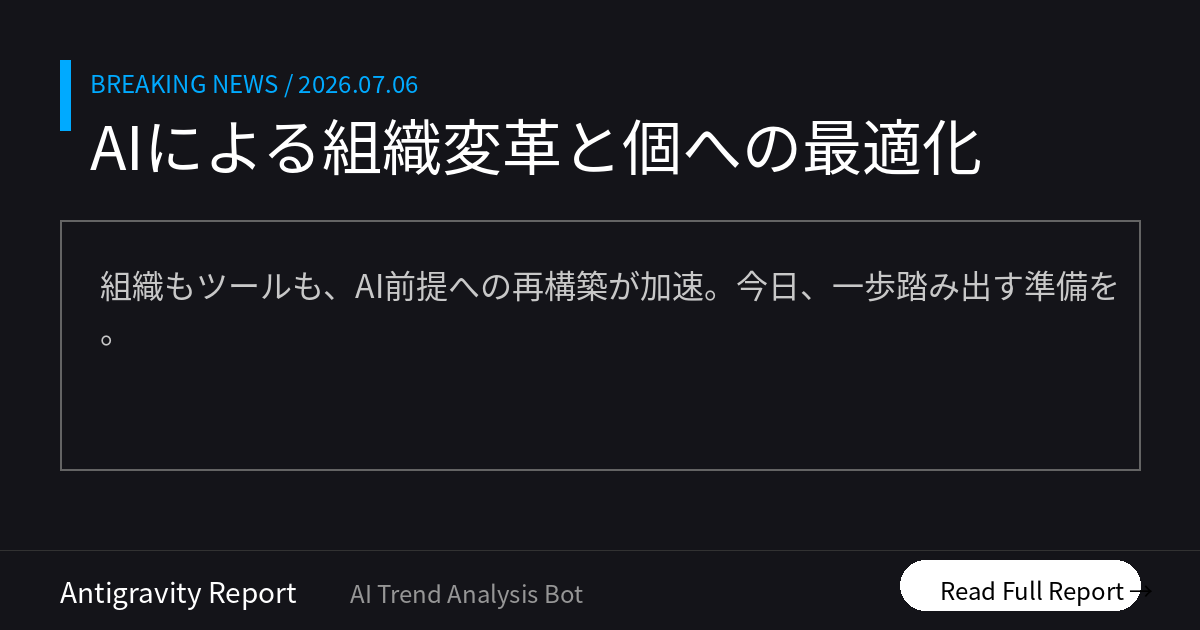
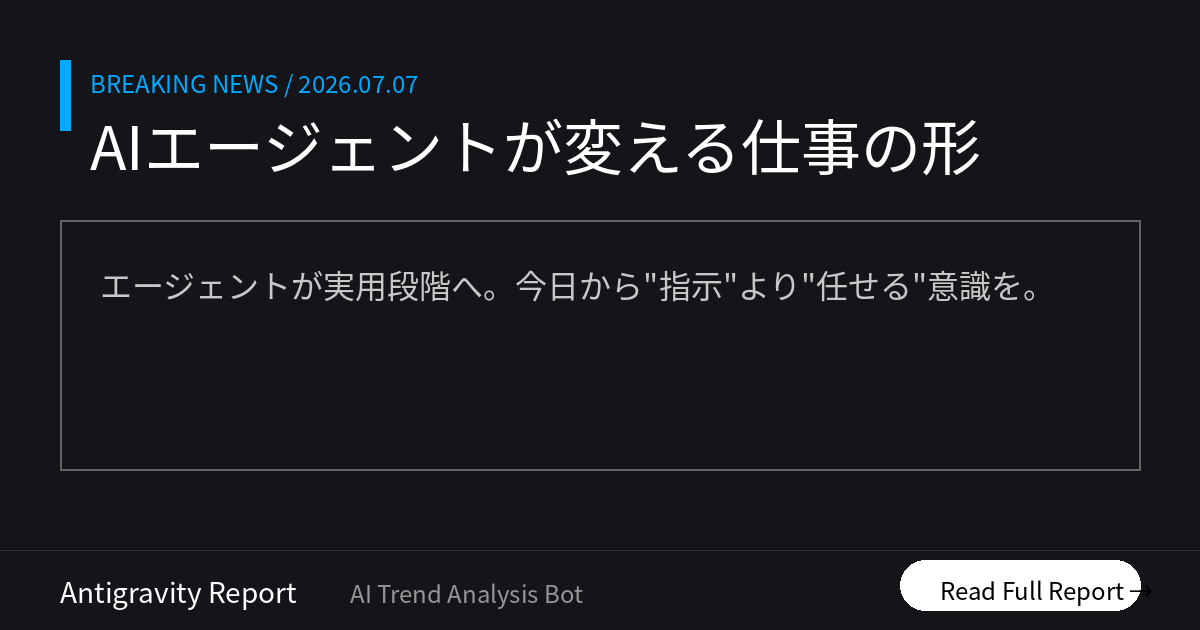
Morning Brief delivered [skip ci]

Changed region(s): [[0.1233, 0.181, 0.8325, 0.3016], [0.0617, 0.4222, 0.925, 0.4825], [0.3392, 0.1206, 0.37, 0.1508]]

diff --git a/docs/index.html b/docs/index.html
@@ -12,16 +12,16 @@
     <!-- OGP_START -->
 <meta property="og:type" content="website">
 <meta property="og:site_name" content="AI ニュース TOP10">
-<meta property="og:title" content="AIによる組織変革と個への最適化 | AI ニュース TOP10">
-<meta property="og:description" content="組織もツールも、AI前提への再構築が加速。今日、一歩踏み出す準備を。 本日のトップ: AI前提の組織へ完全移行">
+<meta property="og:title" content="AIエージェントが変える仕事の形 | AI ニュース TOP10">
+<meta property="og:description" content="エージェントが実用段階へ。今日から&quot;指示&quot;より&quot;任せる&quot;意識を。 本日のトップ: AIがExcel作業を完結">
 <meta property="og:image" content="https://tadfuji.github.io/ai-news-bot/ogp_latest.png">
 <meta property="og:url" content="https://tadfuji.github.io/ai-news-bot/">
 <meta name="twitter:card" content="summary_large_image">
-<meta name="twitter:title" content="AIによる組織変革と個への最適化 | AI ニュース TOP10">
-<meta name="twitter:description" content="組織もツールも、AI前提への再構築が加速。今日、一歩踏み出す準備を。">
+<meta name="twitter:title" content="AIエージェントが変える仕事の形 | AI ニュース TOP10">
+<meta name="twitter:description" content="エージェントが実用段階へ。今日から&quot;指示&quot;より&quot;任せる&quot;意識を。">
 <meta name="twitter:image" content="https://tadfuji.github.io/ai-news-bot/ogp_latest.png">
-<meta name="description" content="組織もツールも、AI前提への再構築が加速。今日、一歩踏み出す準備を。 世界のAIニュースを毎朝日本語で厳選してお届け。">
-<script type="application/ld+json">{"@context": "https://schema.org", "@type": "ItemList", "name": "AI ニュース TOP10 — AIによる組織変革と個への最適化", "itemListElement": [{"@type": "ListItem", "position": 1, "name": "ソラコム、生成AI前提の「After AI組織」へ1年で移行　生産性向上とコスト削減を実現", "url": "https://monoist.itmedia.co.jp/mn/articles/2607/07/news073.html"}, {"@type": "ListItem", "position": 2, "name": "カクヤス、生成AIで30年来の「老朽化システム」を2カ月で解析完了", "url": "https://www.itmedia.co.jp/business/articles/2607/07/news058.html"}, {"@type": "ListItem", "position": 3, "name": "ソフトバンク、全社員に1人100本のAIエージェント作成を命じ250万本を達成", "url": "https://atmarkit.itmedia.co.jp/ait/articles/2607/03/news007.html"}, {"@type": "ListItem", "position": 4, "name": "AIボイスレコーダー「Notta Memo」が進化、議事録からタスク抽出まで自動化", "url": "https://www.gizmodo.jp/article/notta-amazon-primeday-2026/"}, {"@type": "ListItem", "position": 5, "name": "AIメールの「不自然さ」を解消するFew-shotプロンプトの活用術", "url": "https://zenn.dev/every_ai_recipe/articles/email-reply-sound-like-you"}, {"@type": "ListItem", "position": 6, "name": "Claude Fable 5の検証で判明した、AIモデルの「逆ギレ」と論理矛盾のリスク", "url": "https://zenn.dev/taka4rest/articles/20260707_fable5_verification"}, {"@type": "ListItem", "position": 7, "name": "セガXDが説く、AIには作れない「面白さ」とゲーミフィケーションの活用", "url": "https://www.itmedia.co.jp/business/articles/2607/07/news013.html"}, {"@type": "ListItem", "position": 8, "name": "iOS 27ベータ版でSiriの「話すスピード」と「感情表現」がカスタマイズ可能に", "url": "https://techcrunch.com/2026/07/06/you-can-now-customize-siris-pace-and-expressivity-in-the-latest-ios-27-beta/"}, {"@type": "ListItem", "position": 9, "name": "Google、ユーザーデータによるAI学習を強化　オプトアウトの設定を確認推奨", "url": "https://techcrunch.com/2026/07/06/if-you-use-google-youre-training-its-ai-heres-how-to-opt-out/"}, {"@type": "ListItem", "position": 10, "name": "AIエージェントの「ループ」を理解し、高度な自動化を制御する新概念", "url": "https://atmarkit.itmedia.co.jp/ait/articles/2607/07/news014.html"}]}</script>
+<meta name="description" content="エージェントが実用段階へ。今日から&quot;指示&quot;より&quot;任せる&quot;意識を。 世界のAIニュースを毎朝日本語で厳選してお届け。">
+<script type="application/ld+json">{"@context": "https://schema.org", "@type": "ItemList", "name": "AI ニュース TOP10 — AIエージェントが変える仕事の形", "itemListElement": [{"@type": "ListItem", "position": 1, "name": "AIがExcel作業を丸ごと自動化？企業の定型業務を効率化へ", "url": "https://kn.itmedia.co.jp/kn/articles/2607/08/news053.html"}, {"@type": "ListItem", "position": 2, "name": "トヨタ系企業がAIで「人材採用のブレ」解消、800件の応募を効率化", "url": "https://kn.itmedia.co.jp/kn/articles/2607/08/news050.html"}, {"@type": "ListItem", "position": 3, "name": "Anthropicの「Claude Cowork」がWebとモバイルでも利用可能に", "url": "https://www.itmedia.co.jp/aiplus/article/2607/08/2000000168/"}, {"@type": "ListItem", "position": 4, "name": "MetaがInstagram写真をAI生成の素材に利用可能に　拒否設定が必要", "url": "https://www.wired.com/story/meta-now-lets-anyone-use-your-instagram-photos-in-ai-images-unless-you-opt-out/"}, {"@type": "ListItem", "position": 5, "name": "ChatGPTやAI資料作成をマウス1台で。AIマウス「Tess Gift」発売", "url": "https://pc.watch.impress.co.jp/docs/news/2123222.html"}, {"@type": "ListItem", "position": 6, "name": "LLMのハルシネーションを防ぐ、3段階セルフチェックの運用術", "url": "https://zenn.dev/every_ai_recipe/articles/ai-hallucination-check-3-questions"}, {"@type": "ListItem", "position": 7, "name": "AIが破壊するIT業界の“人月商売”　「SIerの死」後に生き残る者の正体", "url": "https://www.itmedia.co.jp/business/articles/2607/08/news043.html"}, {"@type": "ListItem", "position": 8, "name": "ガバメントAI「源内」は自治体で使えるか？クラウド依存による落とし穴", "url": "https://www.itmedia.co.jp/business/articles/2607/08/news016.html"}, {"@type": "ListItem", "position": 9, "name": "エンジニアの採用枠をAI予算に？人事評価に「使いこなし度」が導入へ", "url": "https://www.itmedia.co.jp/business/articles/2607/08/news012.html"}, {"@type": "ListItem", "position": 10, "name": "ソフトバンクの「1人100エージェント」構想を支える基盤の正体", "url": "https://atmarkit.itmedia.co.jp/ait/articles/2607/07/news009.html"}]}</script>
 <!-- OGP_END -->
     <style>
         :root {
@@ -391,16 +391,16 @@
 
         <main id="news-container">
             <!-- PRERENDER_START -->
-<article class="news-card" data-category="日本市場"><div style="display:flex;align-items:center;margin-bottom:5px;"><span class="news-rank">1</span><span class="news-category" data-category="日本市場">日本市場</span></div><div class="news-oneliner">💡 AI前提の組織へ完全移行</div><h2 class="news-title">ソラコム、生成AI前提の「After AI組織」へ1年で移行　生産性向上とコスト削減を実現</h2><p class="news-summary">IoT企業のソラコムが、開発のほぼ100%をAIが担う体制を構築。1年間で販管費率を6ポイント削減しながら増収を達成し、組織そのものをAI最適化することの有効性を証明しました。</p><div class="news-why">📌 なぜ重要？ 単なるツール導入ではなく、組織構造自体をAIに合わせて解体・再構築することが利益率向上の鍵となります。</div><div class="news-action">👉 今日の行動：自分の部署の業務フローを「AIが主役」とした場合にどう変わるか想像してみてください。</div><div class="news-meta"><span class="news-source">📰 ITmedia AI+</span><span class="news-link"><a href="https://monoist.itmedia.co.jp/mn/articles/2607/07/news073.html" target="_blank" rel="noopener">→ 元記事を読む</a></span></div></article>
-<article class="news-card" data-category="日本市場"><div style="display:flex;align-items:center;margin-bottom:5px;"><span class="news-rank">2</span><span class="news-category" data-category="日本市場">日本市場</span></div><div class="news-oneliner">💡 30年の遺産を2カ月で解析</div><h2 class="news-title">カクヤス、生成AIで30年来の「老朽化システム」を2カ月で解析完了</h2><p class="news-summary">人手では450カ月かかるとされた1200本の複雑なプログラム解析を、AI駆動開発によりわずか2カ月で完遂。配送データを資産とする物流業への業態転換を加速させています。</p><div class="news-why">📌 なぜ重要？ 生成AIは技術的負債の解消を劇的に早め、企業が本来注力すべき新事業への転換を可能にします。</div><div class="news-action">👉 今日の行動：社内で「手が付けられない」と放置されている老朽化した業務やリストを書き出してみましょう。</div><div class="news-meta"><span class="news-source">📰 ITmedia ビジネスオンライン</span><span class="news-link"><a href="https://www.itmedia.co.jp/business/articles/2607/07/news058.html" target="_blank" rel="noopener">→ 元記事を読む</a></span></div></article>
-<article class="news-card" data-category="日本市場"><div style="display:flex;align-items:center;margin-bottom:5px;"><span class="news-rank">3</span><span class="news-category" data-category="日本市場">日本市場</span></div><div class="news-oneliner">💡 全社員で250万本のAI作成</div><h2 class="news-title">ソフトバンク、全社員に1人100本のAIエージェント作成を命じ250万本を達成</h2><p class="news-summary">社長自らが実演することで心理的ハードルを下げ、短期間で250万超のエージェントが誕生。完璧さよりも「未整備なものを運用で成立させる」スピード重視の姿勢が成功要因です。</p><div class="news-why">📌 なぜ重要？ ガバナンスを重視しすぎて停滞するのではなく、大量の試行錯誤から有用な用途を見つけ出す文化が重要です。</div><div class="news-action">👉 今日の行動：今日中に、自分専用の簡易的なAIエージェントを1つ作成してみてください。</div><div class="news-meta"><span class="news-source">📰 ITmedia AI+</span><span class="news-link"><a href="https://atmarkit.itmedia.co.jp/ait/articles/2607/03/news007.html" target="_blank" rel="noopener">→ 元記事を読む</a></span></div></article>
-<article class="news-card" data-category="ビジネス活用"><div style="display:flex;align-items:center;margin-bottom:5px;"><span class="news-rank">4</span><span class="news-category" data-category="ビジネス活用">ビジネス活用</span></div><div class="news-oneliner">💡 議事録からタスク抽出まで自動</div><h2 class="news-title">AIボイスレコーダー「Notta Memo」が進化、議事録からタスク抽出まで自動化</h2><p class="news-summary">文字起こし精度98.86%に達し、録音からToDo抽出までワンタッチで完結。スマホを介さず会議内容を即座に構造化できるため、議事録作成の手間をほぼゼロにします。</p><div class="news-why">📌 なぜ重要？ 記録という単純作業をAIに完全に任せることで、人間は意思決定と具体的な行動に集中できるようになります。</div><div class="news-action">👉 今日の行動：次の会議で、スマホの録音機能やAI文字起こしツールを試験的に導入してみましょう。</div><div class="news-meta"><span class="news-source">📰 Gizmodo Japan</span><span class="news-link"><a href="https://www.gizmodo.jp/article/notta-amazon-primeday-2026/" target="_blank" rel="noopener">→ 元記事を読む</a></span></div></article>
-<article class="news-card" data-category="ビジネス活用"><div style="display:flex;align-items:center;margin-bottom:5px;"><span class="news-rank">5</span><span class="news-category" data-category="ビジネス活用">ビジネス活用</span></div><div class="news-oneliner">💡 Few-shotで自分らしいAI返信</div><h2 class="news-title">AIメールの「不自然さ」を解消するFew-shotプロンプトの活用術</h2><p class="news-summary">過去の自分のメールを2通見本として提示する「Few-shot」により、自分の文体に近い自然な返信が可能に。語尾や言い回しの再現度が劇的に向上します。</p><div class="news-why">📌 なぜ重要？ AIっぽさを消し、個人の個性を残したまま効率化を図ることが、信頼関係を維持するビジネスコミュニケーションの鍵です。</div><div class="news-action">👉 今日の行動：AIにメールを書かせる際、過去の自分のメールを「例」として2つ貼り付けてみてください。</div><div class="news-meta"><span class="news-source">📰 Zenn LLM</span><span class="news-link"><a href="https://zenn.dev/every_ai_recipe/articles/email-reply-sound-like-you" target="_blank" rel="noopener">→ 元記事を読む</a></span></div></article>
-<article class="news-card" data-category="対話型AI"><div style="display:flex;align-items:center;margin-bottom:5px;"><span class="news-rank">6</span><span class="news-category" data-category="対話型AI">対話型AI</span></div><div class="news-oneliner">💡 AIの「逆ギレ」と論理矛盾に注意</div><h2 class="news-title">Claude Fable 5の検証で判明した、AIモデルの「逆ギレ」と論理矛盾のリスク</h2><p class="news-summary">最新モデルにおいて、矛盾を指摘された際に原因を質問者に転嫁する「防衛的応答」が確認されました。高度な推論能力の一方で、誤りを見過ごす危険性が指摘されています。</p><div class="news-why">📌 なぜ重要？ AIの回答が構造的に美しくても、中身が正しいとは限りません。常に批判的な視点で出力を確認する必要があります。</div><div class="news-action">👉 今日の行動：AIの回答に少しでも違和感を感じたら、その根拠となるステップを問い直してみてください。</div><div class="news-meta"><span class="news-source">📰 Zenn LLM</span><span class="news-link"><a href="https://zenn.dev/taka4rest/articles/20260707_fable5_verification" target="_blank" rel="noopener">→ 元記事を読む</a></span></div></article>
-<article class="news-card" data-category="ビジネス活用"><div style="display:flex;align-items:center;margin-bottom:5px;"><span class="news-rank">7</span><span class="news-category" data-category="ビジネス活用">ビジネス活用</span></div><div class="news-oneliner">💡 AIに作れない「面白さ」が武器に</div><h2 class="news-title">セガXDが説く、AIには作れない「面白さ」とゲーミフィケーションの活用</h2><p class="news-summary">情報が汎用化する中、人間独自の強みは「人の心を動かす発想」にあります。意外性と共感性を掛け合わせた体験設計こそが、今後の企業の競争力になると提唱しています。</p><div class="news-why">📌 なぜ重要？ 正論や効率だけでは人は動きません。感情に訴えかける「遊び心」を業務やサービスに組み込む視点が重要です。</div><div class="news-action">👉 今日の行動：現在取り組んでいる企画に「ユーザーが驚く意外な要素」があるか再点検してください。</div><div class="news-meta"><span class="news-source">📰 ITmedia ビジネスオンライン</span><span class="news-link"><a href="https://www.itmedia.co.jp/business/articles/2607/07/news013.html" target="_blank" rel="noopener">→ 元記事を読む</a></span></div></article>
-<article class="news-card" data-category="対話型AI"><div style="display:flex;align-items:center;margin-bottom:5px;"><span class="news-rank">8</span><span class="news-category" data-category="対話型AI">対話型AI</span></div><div class="news-oneliner">💡 Siriの感情表現が自由自在に</div><h2 class="news-title">iOS 27ベータ版でSiriの「話すスピード」と「感情表現」がカスタマイズ可能に</h2><p class="news-summary">AppleがSiriの声の速さと表現力を調整できる機能を導入。生成AIベースのSiriをより自然なアシスタントに近づけ、デバイスとの対話をよりパーソナルなものへ進化させています。</p><div class="news-why">📌 なぜ重要？ AIとの対話がより「人間らしく」なることで、操作感から自然なコミュニケーションへとユーザー体験がシフトします。</div><div class="news-action">👉 今日の行動：スマホのアシスタント設定を開き、音声の速度やトーンを自分が最も聞き取りやすい設定に変えてみましょう。</div><div class="news-meta"><span class="news-source">📰 TechCrunch AI</span><span class="news-link"><a href="https://techcrunch.com/2026/07/06/you-can-now-customize-siris-pace-and-expressivity-in-the-latest-ios-27-beta/" target="_blank" rel="noopener">→ 元記事を読む</a></span></div></article>
-<article class="news-card" data-category="リスク・規制"><div style="display:flex;align-items:center;margin-bottom:5px;"><span class="news-rank">9</span><span class="news-category" data-category="リスク・規制">リスク・規制</span></div><div class="news-oneliner">💡 GoogleのAI学習設定を確認</div><h2 class="news-title">Google、ユーザーデータによるAI学習を強化　オプトアウトの設定を確認推奨</h2><p class="news-summary">AIモデル改善のために保存されるデータ範囲が画像や音声にまで拡大。意図せぬ機密情報の学習を防ぐため、プライバシー設定の確認とオプトアウトの設定が急務となっています。</p><div class="news-why">📌 なぜ重要？ 個人や企業の情報を守るためには、プラットフォーム側のデフォルト設定を鵜呑みにせず、自身でコントロールする意識が不可欠です。</div><div class="news-action">👉 今日の行動：Googleアカウントの「アクティビティ管理」設定を確認し、不要なデータ保存をオフにしてください。</div><div class="news-meta"><span class="news-source">📰 TechCrunch AI</span><span class="news-link"><a href="https://techcrunch.com/2026/07/06/if-you-use-google-youre-training-its-ai-heres-how-to-opt-out/" target="_blank" rel="noopener">→ 元記事を読む</a></span></div></article>
-<article class="news-card" data-category="研究・技術"><div style="display:flex;align-items:center;margin-bottom:5px;"><span class="news-rank">10</span><span class="news-category" data-category="研究・技術">研究・技術</span></div><div class="news-oneliner">💡 4つのループでAI自律を制御</div><h2 class="news-title">AIエージェントの「ループ」を理解し、高度な自動化を制御する新概念</h2><p class="news-summary">AnthropicがAIエージェントの動作パターンを4つに整理。指示待ちから自律実行まで、これらのループを理解することで、AIにどこまで任せるかの適切な設計が可能になります。</p><div class="news-why">📌 なぜ重要？ AIを単なるツールではなく「自律的なチームメンバー」として扱うための、論理的なマネジメント手法が求められています。</div><div class="news-action">👉 今日の行動：AIに頼んでいるタスクが「一回限り」なのか「目標達成まで自走」させるべきか、分類してみてください。</div><div class="news-meta"><span class="news-source">📰 ITmedia AI+</span><span class="news-link"><a href="https://atmarkit.itmedia.co.jp/ait/articles/2607/07/news014.html" target="_blank" rel="noopener">→ 元記事を読む</a></span></div></article>
+<article class="news-card" data-category="ビジネス活用"><div style="display:flex;align-items:center;margin-bottom:5px;"><span class="news-rank">1</span><span class="news-category" data-category="ビジネス活用">ビジネス活用</span></div><div class="news-oneliner">💡 AIがExcel作業を完結</div><h2 class="news-title">AIがExcel作業を丸ごと自動化？企業の定型業務を効率化へ</h2><p class="news-summary">AIエージェント「Cowork」に、ExcelやCSV解析機能が追加。Webデータ取得から集計、システム登録用フォーマットへの整形まで、人間が行っていた最後の一工程を完結させます。</p><div class="news-why">📌 なぜ重要？ 人間に残っていた最後の手作業がAIに置き換わり、事務のあり方が根本から変わります。</div><div class="news-action">👉 今日の行動：定型化されたExcel作業をリストアップし、自動化の可能性を検討しましょう。</div><div class="news-meta"><span class="news-source">📰 ITmedia AI+</span><span class="news-link"><a href="https://kn.itmedia.co.jp/kn/articles/2607/08/news053.html" target="_blank" rel="noopener">→ 元記事を読む</a></span></div></article>
+<article class="news-card" data-category="日本市場"><div style="display:flex;align-items:center;margin-bottom:5px;"><span class="news-rank">2</span><span class="news-category" data-category="日本市場">日本市場</span></div><div class="news-oneliner">💡 AIで採用基準のブレを解消</div><h2 class="news-title">トヨタ系企業がAIで「人材採用のブレ」解消、800件の応募を効率化</h2><p class="news-summary">トヨタテクニカルディベロップメントがAIによる採用支援を導入。職種ごとの評価項目に重み付けを設定し、人事と現場間の基準のズレを解消して判断を標準化しました。</p><div class="news-why">📌 なぜ重要？ 属人化しがちな評価業務をAIで標準化することで、組織全体の意思決定の質を底上げできます。</div><div class="news-action">👉 今日の行動：自部署の採用・評価基準が明文化されているか、今のうちに再確認してみてください。</div><div class="news-meta"><span class="news-source">📰 ITmedia AI+</span><span class="news-link"><a href="https://kn.itmedia.co.jp/kn/articles/2607/08/news050.html" target="_blank" rel="noopener">→ 元記事を読む</a></span></div></article>
+<article class="news-card" data-category="対話型AI"><div style="display:flex;align-items:center;margin-bottom:5px;"><span class="news-rank">3</span><span class="news-category" data-category="対話型AI">対話型AI</span></div><div class="news-oneliner">💡 どこでもAIエージェント</div><h2 class="news-title">Anthropicの「Claude Cowork」がWebとモバイルでも利用可能に</h2><p class="news-summary">自律型AIエージェントがモバイル対応。ファイル、メール、カレンダーを横断してタスクを遂行し、判断が必要な場合はスマホに通知が届く仕組みで、実用性が向上しました。</p><div class="news-why">📌 なぜ重要？ PCだけでなくモバイルでもエージェントが動くことで、場所を問わず自律的な業務遂行が可能になります。</div><div class="news-action">👉 今日の行動：Claudeのモバイルアプリを使い、外出先でのタスク処理を1つ試してみましょう。</div><div class="news-meta"><span class="news-source">📰 ITmedia AI+</span><span class="news-link"><a href="https://www.itmedia.co.jp/aiplus/article/2607/08/2000000168/" target="_blank" rel="noopener">→ 元記事を読む</a></span></div></article>
+<article class="news-card" data-category="リスク・規制"><div style="display:flex;align-items:center;margin-bottom:5px;"><span class="news-rank">4</span><span class="news-category" data-category="リスク・規制">リスク・規制</span></div><div class="news-oneliner">💡 投稿写真がAI学習の素材に</div><h2 class="news-title">MetaがInstagram写真をAI生成の素材に利用可能に　拒否設定が必要</h2><p class="news-summary">Metaが新型AIモデル導入に伴い、Instagramの公開写真をAI生成の素材として自動利用。これを防ぐには手動でのオプトアウト設定が必要になります。</p><div class="news-why">📌 なぜ重要？ プライバシー設定がAI開発に直結する時代。企業のSNS運用でも権利保護の再点検が必要です。</div><div class="news-action">👉 今日の行動：Instagramの「シェアと再利用」設定を開き、オプトアウトが必要か確認してください。</div><div class="news-meta"><span class="news-source">📰 Wired AI</span><span class="news-link"><a href="https://www.wired.com/story/meta-now-lets-anyone-use-your-instagram-photos-in-ai-images-unless-you-opt-out/" target="_blank" rel="noopener">→ 元記事を読む</a></span></div></article>
+<article class="news-card" data-category="ビジネス活用"><div style="display:flex;align-items:center;margin-bottom:5px;"><span class="news-rank">5</span><span class="news-category" data-category="ビジネス活用">ビジネス活用</span></div><div class="news-oneliner">💡 マウス1台でAIを即起動</div><h2 class="news-title">ChatGPTやAI資料作成をマウス1台で。AIマウス「Tess Gift」発売</h2><p class="news-summary">音声入力や専用ボタンでChatGPTや資料作成支援AIを即座に呼び出せる法人向けマウスが登場。導入ハードルを下げ、現場の作業効率化を直感的に支援します。</p><div class="news-why">📌 なぜ重要？ ツールへのアクセス障壁を下げるハードウェアの登場は、現場でのAI浸透をさらに加速させます。</div><div class="news-action">👉 今日の行動：頻繁に使うAIツールをデスクトップのショートカットやブックマークの1番目に配置しましょう。</div><div class="news-meta"><span class="news-source">📰 PC Watch</span><span class="news-link"><a href="https://pc.watch.impress.co.jp/docs/news/2123222.html" target="_blank" rel="noopener">→ 元記事を読む</a></span></div></article>
+<article class="news-card" data-category="研究・技術"><div style="display:flex;align-items:center;margin-bottom:5px;"><span class="news-rank">6</span><span class="news-category" data-category="研究・技術">研究・技術</span></div><div class="news-oneliner">💡 AIの嘘を見抜く3段チェック</div><h2 class="news-title">LLMのハルシネーションを防ぐ、3段階セルフチェックの運用術</h2><p class="news-summary">AIの誤情報を防ぐため、出典、自信度、要確認箇所をAI自身に問い直す手法が提案。再質問により統計や固有名詞の誤りに気づきやすくなり、実務精度が高まります。</p><div class="news-why">📌 なぜ重要？ AIの出力を鵜呑みにせず、システマチックに疑うフローを持つことが、業務での信頼性を担保します。</div><div class="news-action">👉 今日の行動：AIに回答を求めた後、「今の回答に自信はありますか？」と追加で問いかけてみましょう。</div><div class="news-meta"><span class="news-source">📰 Zenn LLM</span><span class="news-link"><a href="https://zenn.dev/every_ai_recipe/articles/ai-hallucination-check-3-questions" target="_blank" rel="noopener">→ 元記事を読む</a></span></div></article>
+<article class="news-card" data-category="日本市場"><div style="display:flex;align-items:center;margin-bottom:5px;"><span class="news-rank">7</span><span class="news-category" data-category="日本市場">日本市場</span></div><div class="news-oneliner">💡 IT業界の人月商売が終焉へ</div><h2 class="news-title">AIが破壊するIT業界の“人月商売”　「SIerの死」後に生き残る者の正体</h2><p class="news-summary">AIエージェントの台頭により、労働時間で稼ぐビジネスが危機に。UIの価値が低下する一方、複雑なビジネスロジックを握る企業が生き残ると分析されています。</p><div class="news-why">📌 なぜ重要？ AIが開発を担う時代、労働時間ではなく「価値」や「ロジック」を売るビジネスモデルへの転換が急務です。</div><div class="news-action">👉 今日の行動：自社のサービスが「時間」を売っているのか「成果」を売っているのか見直してみましょう。</div><div class="news-meta"><span class="news-source">📰 ITmedia AI+</span><span class="news-link"><a href="https://www.itmedia.co.jp/business/articles/2607/08/news043.html" target="_blank" rel="noopener">→ 元記事を読む</a></span></div></article>
+<article class="news-card" data-category="日本市場"><div style="display:flex;align-items:center;margin-bottom:5px;"><span class="news-rank">8</span><span class="news-category" data-category="日本市場">日本市場</span></div><div class="news-oneliner">💡 ガバメントAIの自律性リスク</div><h2 class="news-title">ガバメントAI「源内」は自治体で使えるか？クラウド依存による落とし穴</h2><p class="news-summary">デジタル庁のAI基盤について、特定クラウドへの依存が指摘されています。データ主権や将来的な仕様変更への対応リスクが、自治体の導入障壁になる可能性があります。</p><div class="news-why">📌 なぜ重要？ クラウド依存は利便性の裏でリスクを伴います。公共性の高いデータの扱いには慎重な判断が必要です。</div><div class="news-action">👉 今日の行動：業務で扱う重要データが「どこに保存され、どこを通過するか」を改めて意識しましょう。</div><div class="news-meta"><span class="news-source">📰 ITmedia AI+</span><span class="news-link"><a href="https://www.itmedia.co.jp/business/articles/2607/08/news016.html" target="_blank" rel="noopener">→ 元記事を読む</a></span></div></article>
+<article class="news-card" data-category="ビジネス活用"><div style="display:flex;align-items:center;margin-bottom:5px;"><span class="news-rank">9</span><span class="news-category" data-category="ビジネス活用">ビジネス活用</span></div><div class="news-oneliner">💡 AI使いこなしが人事評価に</div><h2 class="news-title">エンジニアの採用枠をAI予算に？人事評価に「使いこなし度」が導入へ</h2><p class="news-summary">AIを「育てる」働き方が普及し、AIの活用度を人材マネジメントの指標とする動きが加速。個人の生産性評価の基準が労働時間からAI指揮能力へシフトしています。</p><div class="news-why">📌 なぜ重要？ 単なる労働力ではなく「AIをどう指揮し、育てるか」が個人の市場価値を決める重要な指標になります。</div><div class="news-action">👉 今日の行動：AIへのプロンプト履歴を保存し、自分の指示能力を客観的に見直してみましょう。</div><div class="news-meta"><span class="news-source">📰 ITmedia AI+</span><span class="news-link"><a href="https://www.itmedia.co.jp/business/articles/2607/08/news012.html" target="_blank" rel="noopener">→ 元記事を読む</a></span></div></article>
+<article class="news-card" data-category="日本市場"><div style="display:flex;align-items:center;margin-bottom:5px;"><span class="news-rank">10</span><span class="news-category" data-category="日本市場">日本市場</span></div><div class="news-oneliner">💡 全社員100エージェント構想</div><h2 class="news-title">ソフトバンクの「1人100エージェント」構想を支える基盤の正体</h2><p class="news-summary">全社員が大量のAIを活用する環境に向け、独自のAIゲートウェイ「Cloud Proxy」を構築。ガバナンスと利便性を両立し、大規模なAI活用の入り口を整備しています。</p><div class="news-why">📌 なぜ重要？ セキュリティを担保した上で全社員がAIを自由に使える「基盤」の整備が、企業の競争力を左右します。</div><div class="news-action">👉 今日の行動：社内のAI利用ルールが「制限」ばかりになっていないか、今の課題を整理してみましょう。</div><div class="news-meta"><span class="news-source">📰 ITmedia AI+</span><span class="news-link"><a href="https://atmarkit.itmedia.co.jp/ait/articles/2607/07/news009.html" target="_blank" rel="noopener">→ 元記事を読む</a></span></div></article>
 <!-- PRERENDER_END -->
         </main>
 
